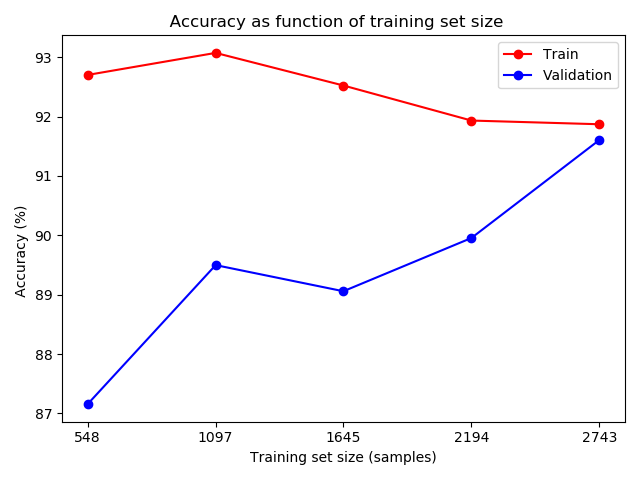
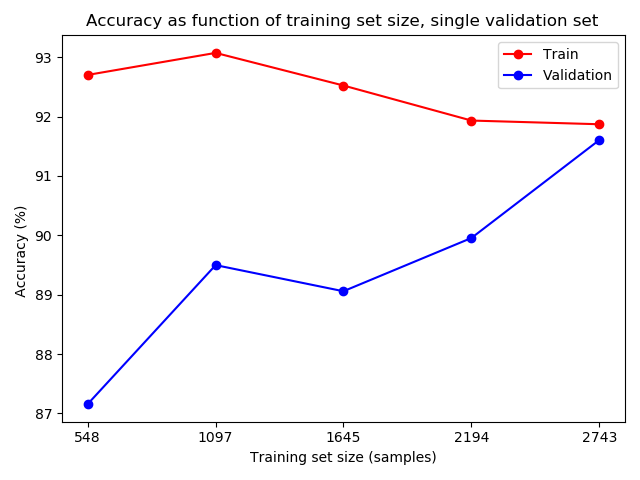
Fd

Changed region(s): [[0.125, 0.0312, 0.9375, 0.0625]]

diff --git a/utils.py b/utils.py
@@ -43,6 +43,8 @@ def plot_train_vald(train, vald, x_axis, cross=True):
     title = "Accuracy as function of training set size"
     if cross:
         title = "Mean " + title + ", cross-validation (5)"
+    else:
+        title += ", single validation set"
     plt.title(title)
     ax.legend()
     plt.show()
